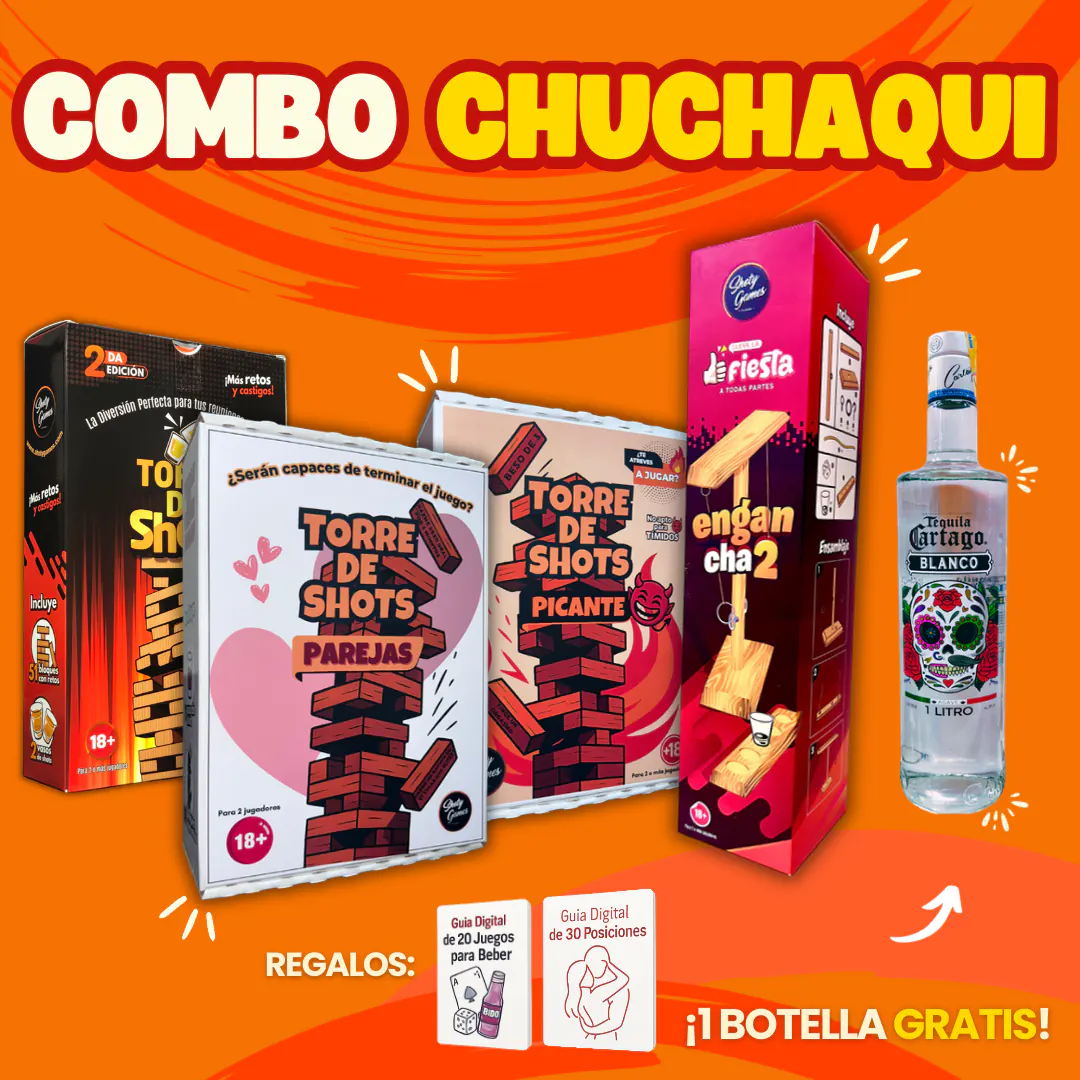
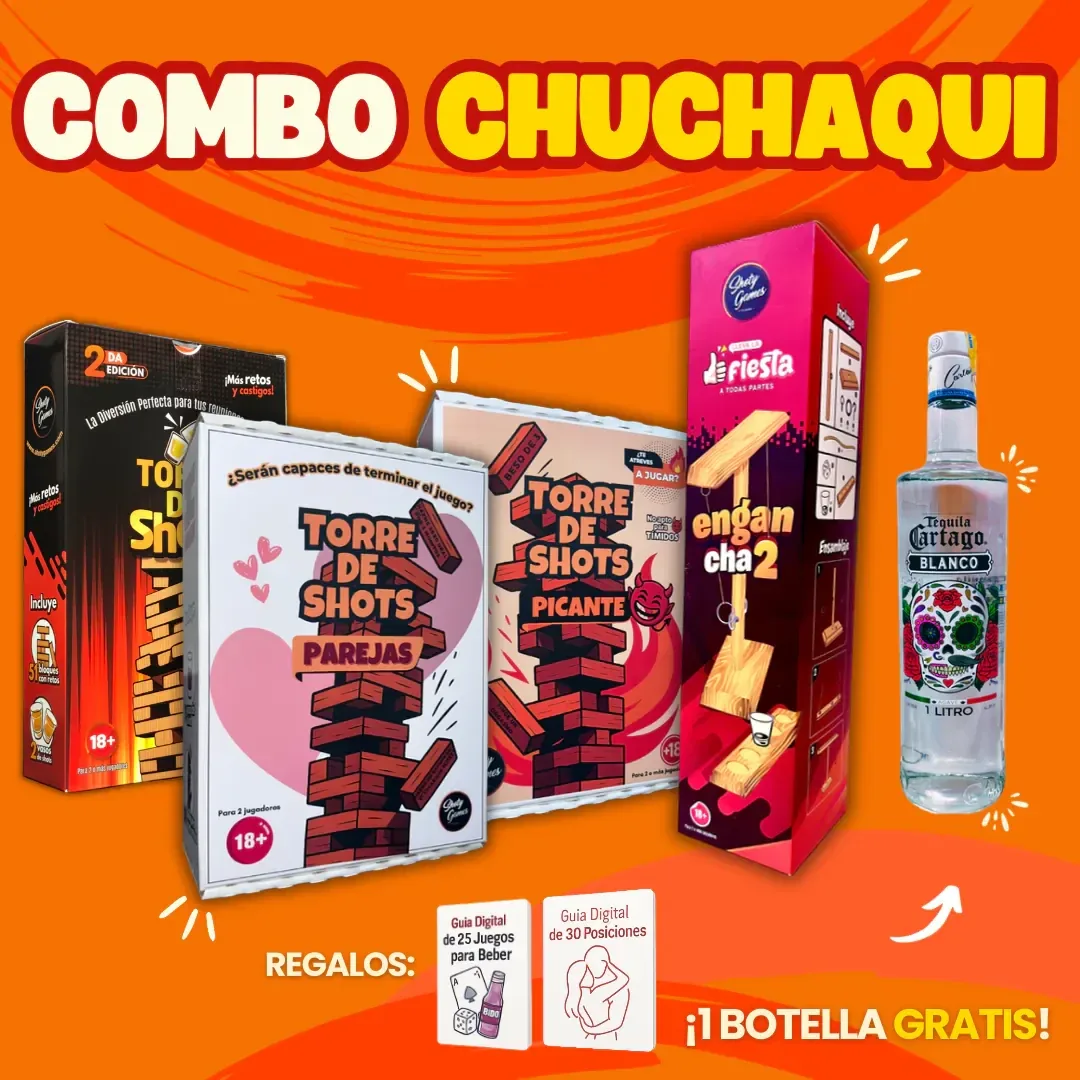
feat(web-shotygames): el regalo pasa a 25 juegos en toda la web y la Picante deja de ofrecer Emparejados
- "Guía de 20 juegos" -> 25 en las 13 landings, catálogo, ficha de producto,
  checkout y SEO (42 menciones). Es lo que ya ofrece el bot de ventas y lo
  que trae el ebook que se entrega (25 fichas, 5 como bonus).
- Las 3 imágenes de combos (Torres, Chuchaqui, Promo 2 Torres) tenían
  "de 20 Juegos para Beber" impreso: se reemplazó solo el "0" por un "5" con
  la misma tipografía, sin regenerar la imagen. Pesan un poco menos que antes.
- El ebook se vende como "Guía Digital de 25 Juegos para Fiestas", el texto
  exacto que el Switch del bot digital de n8n busca en PRODUCTOS (con "20"
  no matcheaba).
- Checkout de la Picante (v1, v2 y catálogo de la home) sin el upsell de
  Emparejados.

diff --git a/projects/web-shotygames/src/pages/TorrePicanteLanding.tsx b/projects/web-shotygames/src/pages/TorrePicanteLanding.tsx
@@ -14,7 +14,6 @@ import torrePicante1 from "@/assets/torre-picante-1.webp";
 import torreNormalImg from "@/assets/torre-normal-brillo.webp";
 import torreParejasImg from "@/assets/torre-parejas.jpg";
 import dadosDelPlacerImg from "@/assets/dados-del-placer.webp";
-import emparejadosPortada from "@/assets/emparejados-portada.jpg";
 import torrePicante2 from "@/assets/torre-picante-2.webp";
 import torrePicante3 from "@/assets/torre-picante-3.webp";
 import torrePicante4 from "@/assets/torre-picante-4.webp";
@@ -29,7 +28,6 @@ import torrePicanteLifeGrupo from "@/assets/torre-picante-life-grupo.webp";
 import torreNormalImgThumb from "@/assets/thumbs/torre-normal-brillo.webp";
 import torreParejasImgThumb from "@/assets/thumbs/torre-parejas.webp";
 import dadosDelPlacerImgThumb from "@/assets/thumbs/dados-del-placer.webp";
-import emparejadosPortadaThumb from "@/assets/thumbs/emparejados-portada.webp";
 import { CarouselImage } from "@/components/CarouselImage";
 import { useSlideActual } from "@/hooks/useSlideActual";
 import { trackViewContent, trackInitiateCheckout } from "@/lib/pixels";
@@ -190,7 +188,7 @@ const TorrePicanteLanding = () => {
               <div className="inline-flex items-center gap-2 bg-[#ff3d00]/10 border-2 border-[#ff3d00]/30 rounded-full px-4 py-2 mb-1">
                 <Gift className="w-4 h-4 md:w-5 md:h-5 text-[#ff3d00] flex-shrink-0" />
                 <p className="text-xs md:text-base font-semibold text-left">
-                  Pedido de hoy: llevas la <strong>Guía de 20 Juegos para Fiestas</strong> de regalo
+                  Pedido de hoy: llevas la <strong>Guía de 25 Juegos para Fiestas</strong> de regalo
                 </p>
               </div>
 
@@ -340,7 +338,7 @@ const TorrePicanteLanding = () => {
                   <Gift className="w-6 h-6 text-[#ff3d00] flex-shrink-0 mt-0.5 animate-pulse" />
                   <div>
                     <p className="font-bold text-base md:text-lg">
-                      Guía Digital de 20 Juegos para Fiestas
+                      Guía Digital de 25 Juegos para Fiestas
                       <Badge className="ml-2 bg-[#ff3d00] text-white align-middle">DE REGALO</Badge>
                     </p>
                     <p className="text-sm md:text-base text-muted-foreground">
@@ -420,7 +418,7 @@ const TorrePicanteLanding = () => {
                 <div className="flex items-center justify-between gap-3 text-base md:text-lg">
                   <span className="flex items-center gap-2">
                     <Gift className="w-5 h-5 flex-shrink-0 text-yellow-300" />
-                    Guía de 20 Juegos para Fiestas
+                    Guía de 25 Juegos para Fiestas
                   </span>
                   <span className="font-bold text-yellow-300 whitespace-nowrap">
                     <span className="text-white/60 line-through mr-2 font-normal">$4.90</span>GRATIS
@@ -445,7 +443,7 @@ const TorrePicanteLanding = () => {
 
               <div className="bg-yellow-300/15 border border-yellow-300/40 rounded-xl p-3 md:p-4">
                 <p className="text-sm md:text-base text-yellow-100">
-                  🎁 <strong className="text-yellow-300">La Guía de 20 Juegos va incluida en los pedidos de hoy.</strong>{" "}
+                  🎁 <strong className="text-yellow-300">La Guía de 25 Juegos va incluida en los pedidos de hoy.</strong>{" "}
                   Viene dentro de la caja, en una tarjeta con código QR para descargarla.
                 </p>
               </div>
@@ -537,7 +535,7 @@ const TorrePicanteLanding = () => {
               pagas cuando la tengas en la mano.
             </p>
             <p className="text-base md:text-lg font-semibold text-yellow-300">
-              🎁 Y si pides hoy, la Guía de 20 Juegos va incluida
+              🎁 Y si pides hoy, la Guía de 25 Juegos va incluida
             </p>
 
             <Button
@@ -550,7 +548,7 @@ const TorrePicanteLanding = () => {
             </Button>
 
             <p className="text-xs md:text-sm text-white/80">
-              💵 Pagas al recibir · 🚚 Envío gratis · 🎁 Guía de 20 juegos
+              💵 Pagas al recibir · 🚚 Envío gratis · 🎁 Guía de 25 juegos
             </p>
           </div>
         </div>
@@ -577,7 +575,6 @@ const TorrePicanteLanding = () => {
           { id: 'torreNormal', name: 'Torre La Previa (para grupos)', price: 10, image: torreNormalImgThumb },
           { id: 'torreParejas', name: 'Torre de Shots Parejas', price: 10, image: torreParejasImgThumb },
           { id: 'dadosPlacer', name: 'Dados del Placer', price: 5, image: dadosDelPlacerImgThumb },
-          { id: 'emparejados', name: 'Emparejados (juego digital)', price: 2.90, image: emparejadosPortadaThumb },
         ]}
       />
     </div>

diff --git a/projects/web-shotygames/src/pages/TorreNormalLanding.tsx b/projects/web-shotygames/src/pages/TorreNormalLanding.tsx
@@ -191,7 +191,7 @@ const TorreNormalLanding = () => {
               <div className="inline-flex items-center gap-2 bg-[#ff3d00]/10 border-2 border-[#ff3d00]/30 rounded-full px-4 py-2 mb-1">
                 <Gift className="w-4 h-4 md:w-5 md:h-5 text-[#ff3d00] flex-shrink-0" />
                 <p className="text-xs md:text-base font-semibold text-left">
-                  Pedido de hoy: llevas la <strong>Guía de 20 Juegos para Fiestas</strong> de regalo
+                  Pedido de hoy: llevas la <strong>Guía de 25 Juegos para Fiestas</strong> de regalo
                 </p>
               </div>
 
@@ -350,7 +350,7 @@ const TorreNormalLanding = () => {
                     <Gift className="w-6 h-6 text-[#ff3d00] flex-shrink-0 mt-0.5 animate-pulse" />
                     <div>
                       <p className="font-bold text-base md:text-lg">
-                        Guía Digital de 20 Juegos para Fiestas
+                        Guía Digital de 25 Juegos para Fiestas
                         <Badge className="ml-2 bg-[#ff3d00] text-white align-middle">DE REGALO</Badge>
                       </p>
                       <p className="text-sm md:text-base text-muted-foreground">
@@ -431,7 +431,7 @@ const TorreNormalLanding = () => {
                 <div className="flex items-center justify-between gap-3 text-base md:text-lg">
                   <span className="flex items-center gap-2">
                     <Gift className="w-5 h-5 flex-shrink-0 text-yellow-300" />
-                    Guía de 20 Juegos para Fiestas
+                    Guía de 25 Juegos para Fiestas
                   </span>
                   <span className="font-bold text-yellow-300 whitespace-nowrap">
                     <span className="text-white/60 line-through mr-2 font-normal">$4.90</span>GRATIS
@@ -456,7 +456,7 @@ const TorreNormalLanding = () => {
 
               <div className="bg-yellow-300/15 border border-yellow-300/40 rounded-xl p-3 md:p-4">
                 <p className="text-sm md:text-base text-yellow-100">
-                  🎁 <strong className="text-yellow-300">La Guía de 20 Juegos va incluida en los pedidos de hoy.</strong>{" "}
+                  🎁 <strong className="text-yellow-300">La Guía de 25 Juegos va incluida en los pedidos de hoy.</strong>{" "}
                   Viene dentro de la caja, en una tarjeta con código QR para descargarla.
                 </p>
               </div>
@@ -548,7 +548,7 @@ const TorreNormalLanding = () => {
               pagas cuando la tengas en la mano.
             </p>
             <p className="text-base md:text-lg font-semibold text-yellow-300">
-              🎁 Y si pides hoy, la Guía de 20 Juegos va incluida
+              🎁 Y si pides hoy, la Guía de 25 Juegos va incluida
             </p>
 
             <Button
@@ -561,7 +561,7 @@ const TorreNormalLanding = () => {
             </Button>
 
             <p className="text-xs md:text-sm text-white/80">
-              💵 Pagas al recibir · 🚚 Envío gratis · 🎁 Guía de 20 juegos
+              💵 Pagas al recibir · 🚚 Envío gratis · 🎁 Guía de 25 juegos
             </p>
           </div>
         </div>

diff --git a/projects/web-shotygames/src/pages/TresTorresLanding.tsx b/projects/web-shotygames/src/pages/TresTorresLanding.tsx
@@ -109,7 +109,7 @@ const PLANES: Plan[] = [
       "La torre que elijas",
       "51 bloques con retos",
       "1 vaso tequilero",
-      "Guía digital: 20 juegos para fiestas",
+      "Guía digital: 25 juegos para fiestas",
     ],
     cta: "ELEGIR MI TORRE",
   },
@@ -127,7 +127,7 @@ const PLANES: Plan[] = [
     incluye: [
       "2 torres a elección (puedes repetir)",
       "2 vasos tequileros",
-      "Guía digital: 20 juegos para fiestas",
+      "Guía digital: 25 juegos para fiestas",
       "Guía digital: 30 posiciones",
       "1 Shot Bidu de regalo",
     ],
@@ -150,14 +150,14 @@ const PLANES: Plan[] = [
       "Torre de Shots Picante",
       "Torre de Shots Parejas",
       "3 vasos tequileros",
-      "Guía digital: 20 juegos para fiestas",
+      "Guía digital: 25 juegos para fiestas",
       "Guía digital: 30 posiciones",
       "1 Shot Bidu",
     ],
     incluye: [
       "La Previa + Picante + Parejas",
       "3 vasos tequileros",
-      "Guía digital: 20 juegos para fiestas",
+      "Guía digital: 25 juegos para fiestas",
       "Guía digital: 30 posiciones",
       "1 Shot Bidu de regalo",
       "Lista para cualquier plan: amigos, previa o pareja",
@@ -367,7 +367,7 @@ const TorreCard = ({ torre }: { torre: (typeof TORRES)[number] }) => (
 
       <div className="mt-auto pt-4 border-t">
         <p className="text-xs text-muted-foreground">
-          Incluye 51 bloques · 1 vaso tequilero · instrucciones · guía digital de 20 juegos
+          Incluye 51 bloques · 1 vaso tequilero · instrucciones · guía digital de 25 juegos
         </p>
       </div>
     </div>
@@ -836,7 +836,7 @@ const TresTorresLanding = () => {
 
               <Card className="p-5 text-center border-2">
                 <div className="text-4xl mb-3">📱</div>
-                <h3 className="font-bold mb-1">Guía: 20 juegos</h3>
+                <h3 className="font-bold mb-1">Guía: 25 juegos</h3>
                 <p className="text-sm text-muted-foreground">Para cuando la torre se acabó y la noche no</p>
                 <Badge variant="secondary" className="mt-3">Siempre</Badge>
               </Card>

diff --git a/projects/web-shotygames/src/components/ProductCatalog.tsx b/projects/web-shotygames/src/components/ProductCatalog.tsx
@@ -24,7 +24,7 @@ const physicalProducts = [{
     "1 vaso tequilero",
     "Instrucciones del juego",
     "🚚 Envío incluido",
-    "🎁 Guía digital de 20 juegos para fiestas",
+    "🎁 Guía digital de 25 juegos para fiestas",
   ]
 }, {
   id: "torre-picante",
@@ -38,7 +38,7 @@ const physicalProducts = [{
     "1 vaso tequilero",
     "Instrucciones del juego",
     "🚚 Envío incluido",
-    "🎁 Guía digital de 20 juegos para fiestas",
+    "🎁 Guía digital de 25 juegos para fiestas",
   ]
 }, {
   id: "torre-parejas",
@@ -67,7 +67,7 @@ const physicalProducts = [{
     "1 dado",
     "Instrucciones del juego",
     "🚚 Envío incluido",
-    "🎁 Guía digital de 20 juegos para fiestas",
+    "🎁 Guía digital de 25 juegos para fiestas",
   ]
 }];
 
@@ -136,8 +136,9 @@ const ProductCatalog = () => {
       { id: 'emparejados', name: 'Emparejados (Juego Digital)', price: 2.90, image: emparejadosPortada }
     ];
     
-    // Filtrar el producto principal y retornar los otros
-    return allProducts.filter(p => p.id !== mappedId) as Array<{
+    // Filtrar el producto principal y retornar los otros. A la Picante no se le
+    // ofrece Emparejados (pedido de Fabián, 2026-10-07).
+    return allProducts.filter(p => p.id !== mappedId && !(mappedId === 'torrePicante' && p.id === 'emparejados')) as Array<{
       id: 'torreNormal' | 'torrePicante' | 'torreParejas' | 'enganchados' | 'emparejados' | 'dadosPlacer';
       name: string;
       price: number;

diff --git a/projects/web-shotygames/src/components/CheckoutModal.tsx b/projects/web-shotygames/src/components/CheckoutModal.tsx
@@ -133,12 +133,12 @@ export const CheckoutModal = ({ open, onOpenChange, productName, productPrice, p
   // WhatsApp apenas confirma. Ese contraste es el argumento del pago anticipado
   // y vive únicamente acá — las landings no lo mencionan.
   const REGALO_DIGITAL: Record<string, string> = {
-    torreNormal: 'la guía de 20 juegos para fiestas',
+    torreNormal: 'la guía de 25 juegos para fiestas',
     // La Picante pasó a regalar el ebook de 25 (2026-10-07), igual que ya decía el bot de ventas.
     torrePicante: 'el ebook de 25 juegos para fiestas',
     torreParejas: 'la guía de 30 posiciones',
-    enganchados: 'la guía de 20 juegos para fiestas',
-    partyshots: 'la guía de 20 juegos para fiestas',
+    enganchados: 'la guía de 25 juegos para fiestas',
+    partyshots: 'la guía de 25 juegos para fiestas',
     torres: 'las 2 guías digitales',
     chuchaqui: 'las 2 guías digitales',
     previa: 'las 2 guías digitales',
@@ -221,7 +221,7 @@ export const CheckoutModal = ({ open, onOpenChange, productName, productPrice, p
     if (productId === 'torrePicante') {
       return "Ebook de 25 Juegos para Fiestas";
     }
-    return "Guía Digital de 20 Juegos para Fiestas";
+    return "Guía Digital de 25 Juegos para Fiestas";
   };
 
   const calculateTotal = () => {

diff --git a/projects/web-shotygames/src/pages/ProductDetail.tsx b/projects/web-shotygames/src/pages/ProductDetail.tsx
@@ -33,7 +33,7 @@ const productsData: Record<string, any> = {
       "51 bloques con retos",
       "1 vaso tequilero",
       "Instrucciones del juego",
-      "🎁 Guía digital de 20 juegos para fiestas"
+      "🎁 Guía digital de 25 juegos para fiestas"
     ]
   },
   "torre-picante": {
@@ -54,7 +54,7 @@ const productsData: Record<string, any> = {
       "51 bloques con retos picantes",
       "1 vaso tequilero",
       "Instrucciones del juego",
-      "🎁 Guía digital de 20 juegos para fiestas"
+      "🎁 Guía digital de 25 juegos para fiestas"
     ]
   },
   "torre-parejas": {
@@ -98,7 +98,7 @@ const productsData: Record<string, any> = {
       "1 vaso tequilero",
       "1 dado",
       "Instrucciones del juego",
-      "🎁 Guía digital de 20 juegos para fiestas"
+      "🎁 Guía digital de 25 juegos para fiestas"
     ]
   },
   "cartas-partyshots": {
@@ -120,7 +120,7 @@ const productsData: Record<string, any> = {
       "1 dado",
       "1 vaso tequilero",
       "Instrucciones del juego",
-      "🎁 Guía digital de 20 juegos para fiestas"
+      "🎁 Guía digital de 25 juegos para fiestas"
     ]
   }
 };

diff --git a/projects/web-shotygames/src/pages/TorrePicanteV2Landing.tsx b/projects/web-shotygames/src/pages/TorrePicanteV2Landing.tsx
@@ -26,7 +26,6 @@ import torrePicante10 from "@/assets/torre-picante-10.webp";
 import torreNormalImgThumb from "@/assets/thumbs/torre-normal-brillo.webp";
 import torreParejasImgThumb from "@/assets/thumbs/torre-parejas.webp";
 import dadosDelPlacerImgThumb from "@/assets/thumbs/dados-del-placer.webp";
-import emparejadosPortadaThumb from "@/assets/thumbs/emparejados-portada.webp";
 
 // Set de octubre 2026 (zip "Torre de Shots Picante"): 12 imágenes pensadas
 // por slot — hero, problema, solución, 3 pasos, antes/después y fotos de la
@@ -841,7 +840,6 @@ const TorrePicanteV2Landing = () => {
           { id: 'torreNormal', name: 'Torre La Previa (para grupos)', price: 10, image: torreNormalImgThumb },
           { id: 'torreParejas', name: 'Torre de Shots Parejas', price: 10, image: torreParejasImgThumb },
           { id: 'dadosPlacer', name: 'Dados del Placer', price: 5, image: dadosDelPlacerImgThumb },
-          { id: 'emparejados', name: 'Emparejados (juego digital)', price: 2.90, image: emparejadosPortadaThumb },
         ]}
       />
     </div>

diff --git a/projects/web-shotygames/src/pages/Ebook25JuegosLanding.tsx b/projects/web-shotygames/src/pages/Ebook25JuegosLanding.tsx
@@ -12,7 +12,7 @@ import { trackViewContent } from "@/lib/pixels";
 const PRECIO = 4.90;
 const PRECIO_ANTERIOR = 12.99;
 const PRODUCT_ID = "ebook-25-juegos-fiestas";
-const PRODUCT_NAME = "Guía Digital de 20 Juegos para Fiestas";
+const PRODUCT_NAME = "Guía Digital de 25 Juegos para Fiestas";
 
 const Ebook25JuegosLanding = () => {
   const [isCheckoutOpen, setIsCheckoutOpen] = useState(false);
@@ -41,8 +41,8 @@ const Ebook25JuegosLanding = () => {
   return (
     <>
       <Seo
-        title="Guía Digital de 20 Juegos para Fiestas | ShotyGames"
-        description="Guía práctica en PDF con 20 juegos para animar reuniones, cenas y previas. Descarga inmediata por solo $4.90"
+        title="Guía Digital de 25 Juegos para Fiestas | ShotyGames"
+        description="Guía práctica en PDF con 25 juegos para animar reuniones, cenas y previas. Descarga inmediata por solo $4.90"
         canonical="https://www.shotygames.com/landing/25-juegos-fiestas"
         type="product"
       />

diff --git a/projects/web-shotygames/src/pages/ComboLaPreviaLanding.tsx b/projects/web-shotygames/src/pages/ComboLaPreviaLanding.tsx
@@ -52,7 +52,7 @@ const ComboLaPreviaLanding = () => {
     "2 Torres de Shots a elección (Normal, Picante o Parejas)",
     "Enganchados - Juego de cartas para fiestas",
     "🎁 Guía digital de 30 posiciones sexuales",
-    "🎁 Guía digital de 20 juegos para fiestas",
+    "🎁 Guía digital de 25 juegos para fiestas",
     "🎁 Shot BIDU de regalo",
   ];
 
@@ -287,7 +287,7 @@ const ComboLaPreviaLanding = () => {
               <Card className="p-6">
                 <h3 className="text-xl font-bold mb-4 text-purple-600">📖 2 Guías Digitales</h3>
                 <p className="text-muted-foreground">
-                  Guía de 30 posiciones sexuales + Guía de 20 juegos para fiestas. Contenido digital exclusivo para tus reuniones.
+                  Guía de 30 posiciones sexuales + Guía de 25 juegos para fiestas. Contenido digital exclusivo para tus reuniones.
                 </p>
               </Card>
 

diff --git a/projects/web-shotygames/src/pages/ComboChuchaquiLanding.tsx b/projects/web-shotygames/src/pages/ComboChuchaquiLanding.tsx
@@ -56,7 +56,7 @@ const ComboChuchaquiLanding = () => {
     "Enganchados",
     "🎁 Botella de regalo",
     "🎁 Guía digital de 30 posiciones sexuales",
-    "🎁 Guía digital de 20 juegos para fiestas",
+    "🎁 Guía digital de 25 juegos para fiestas",
   ];
 
   const productImages = [
@@ -296,7 +296,7 @@ const ComboChuchaquiLanding = () => {
                   <div className="p-4 rounded-lg bg-muted/50">
                     <div className="text-4xl mb-2">📚</div>
                     <p className="font-bold text-lg">2 Guías Digitales</p>
-                    <p className="text-sm text-muted-foreground">30 posiciones + 20 juegos para fiestas</p>
+                    <p className="text-sm text-muted-foreground">30 posiciones + 25 juegos para fiestas</p>
                   </div>
                   <div className="p-4 rounded-lg bg-muted/50">
                     <div className="text-4xl mb-2">🚚</div>

diff --git a/projects/web-shotygames/src/pages/EnganchadosLanding.tsx b/projects/web-shotygames/src/pages/EnganchadosLanding.tsx
@@ -435,7 +435,7 @@ const EnganchadosLanding = () => {
             
             <div className="space-y-3 md:space-y-4 text-base md:text-2xl font-semibold bg-black/20 backdrop-blur-sm p-6 md:p-8 rounded-2xl border-2 border-white/30">
               <p className="text-2xl md:text-3xl">Por tu compra HOY te llevas GRATIS la</p>
-              <p className="text-2xl md:text-4xl font-bold text-yellow-300">Guía Digital de 20 Juegos para Fiestas 🎉</p>
+              <p className="text-2xl md:text-4xl font-bold text-yellow-300">Guía Digital de 25 Juegos para Fiestas 🎉</p>
               <p className="text-base md:text-lg text-white/90">Una guía exclusiva con más ideas y juegos para que nunca falte la diversión en tus reuniones.</p>
               <div className="h-1 w-24 md:w-32 mx-auto bg-white/50 rounded"></div>
               <p className="text-lg md:text-xl"></p>

diff --git a/projects/web-shotygames/src/pages/PartyshotsLanding.tsx b/projects/web-shotygames/src/pages/PartyshotsLanding.tsx
@@ -453,7 +453,7 @@ const PartyshotsLanding = () => {
             
             <div className="space-y-3 md:space-y-4 text-base md:text-2xl font-semibold bg-black/20 backdrop-blur-sm p-6 md:p-8 rounded-2xl border-2 border-black/30">
               <p className="text-2xl md:text-3xl">Por tu compra HOY te llevas GRATIS la</p>
-              <p className="text-2xl md:text-4xl font-bold text-white">Guía Digital de 20 Juegos para Fiestas 🎉</p>
+              <p className="text-2xl md:text-4xl font-bold text-white">Guía Digital de 25 Juegos para Fiestas 🎉</p>
               <p className="text-base md:text-lg text-black/90">Un bonus exclusivo con ideas nuevas, divertidas y locas para seguir la noche con tu grupo.</p>
               <div className="h-1 w-24 md:w-32 mx-auto bg-black/50 rounded"></div>
               <p className="text-lg md:text-xl"></p>
